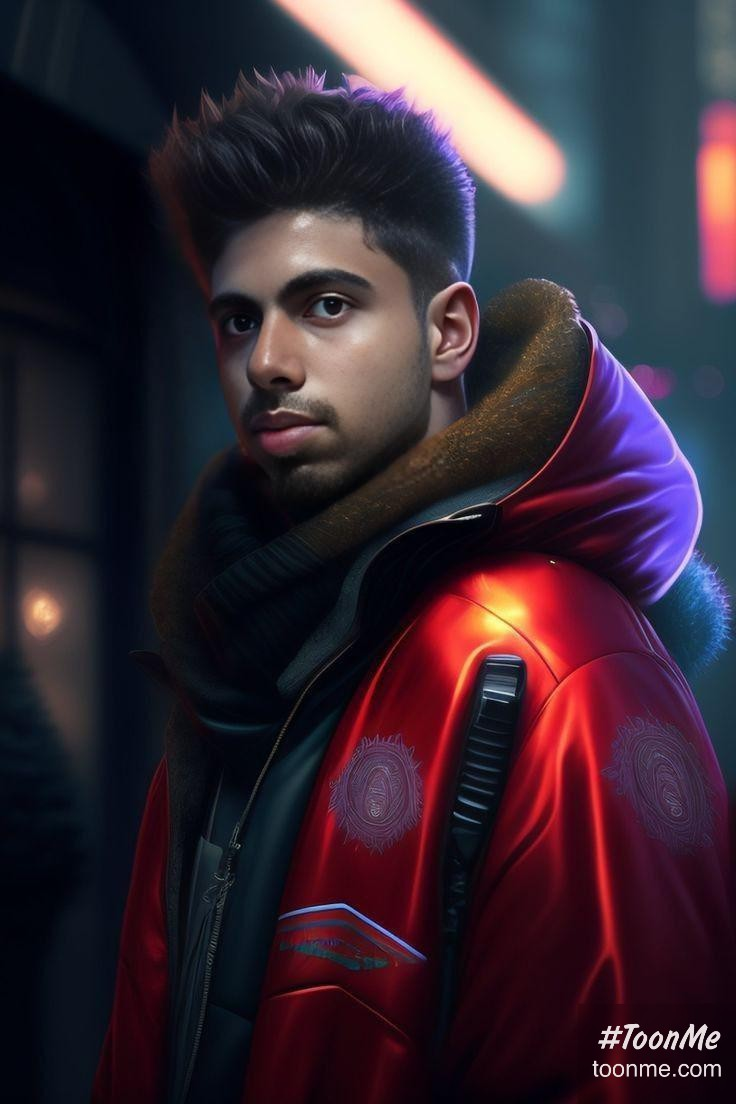
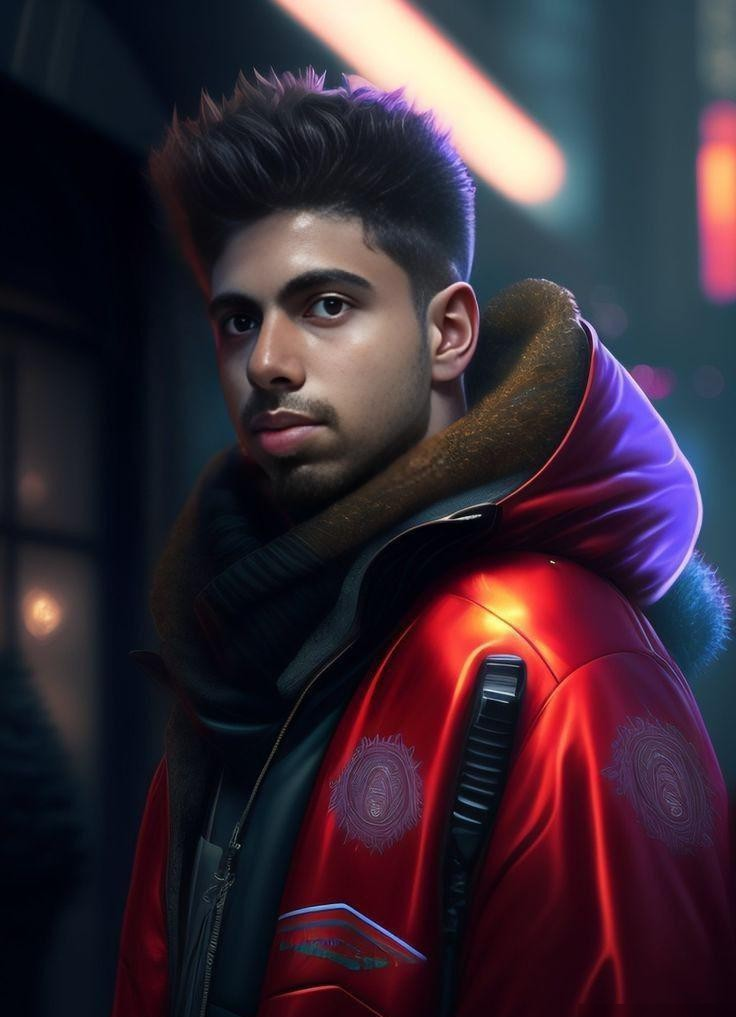
set the text,display,fonts related to image

diff --git a/style.css b/style.css
@@ -58,7 +58,7 @@ header{
     height: 100%;
     width: 100%;
     min-height: 100vh;
-    background: linear-gradient(245.59deg, #4d7995 0%, #384a70, 40.53%, #1a304e 60.52%);
+    background: linear-gradient(245.59deg, #954d52 0%, #384a70, 40.53%, #1a304e 60.52%);
 
     position: relative;
     display: grid;

diff --git a/index.html b/index.html
@@ -49,7 +49,7 @@
         </div>
            
         <div class="hero_img">
-           <img src="tarun_the_gamer.png" alt="tarun_the_gamer">
+           <img src="tarun_the_shy_(2).png" alt="tarun_the_shy" width="300px" height="420px">
         </div>
     </section>
 
